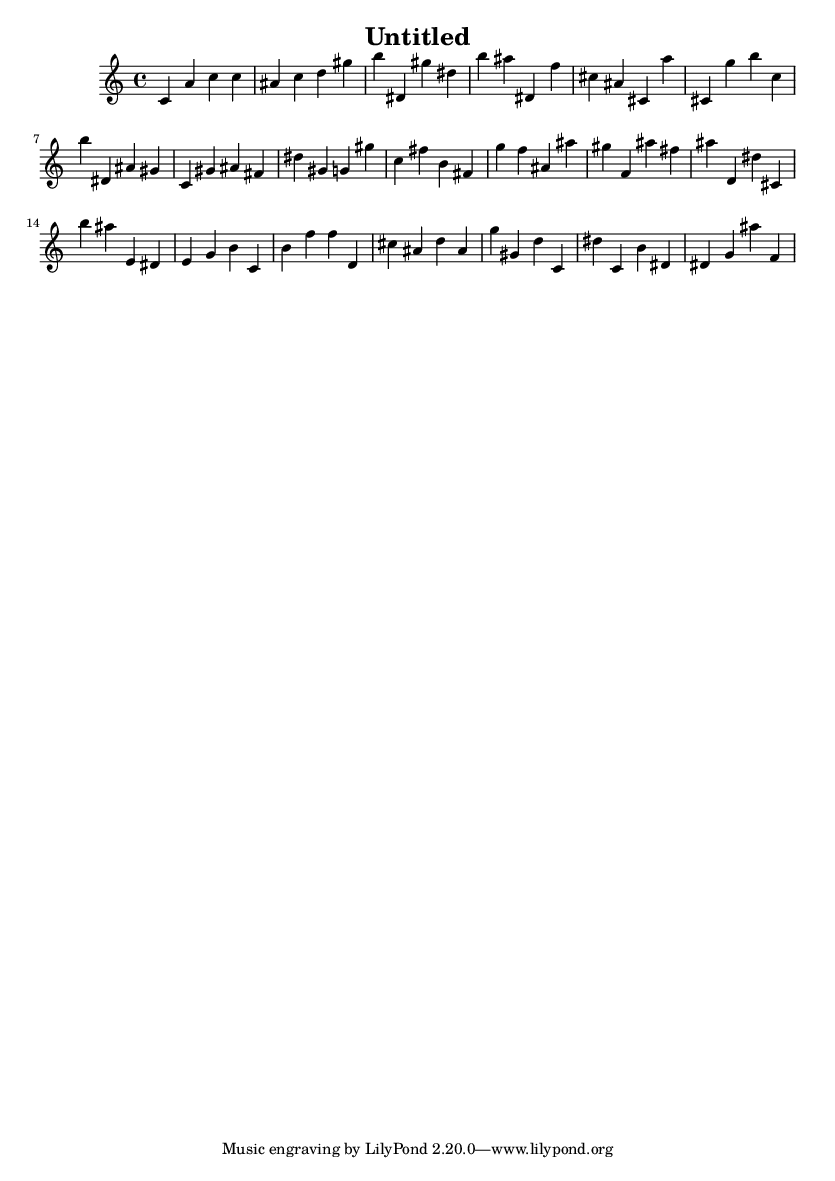
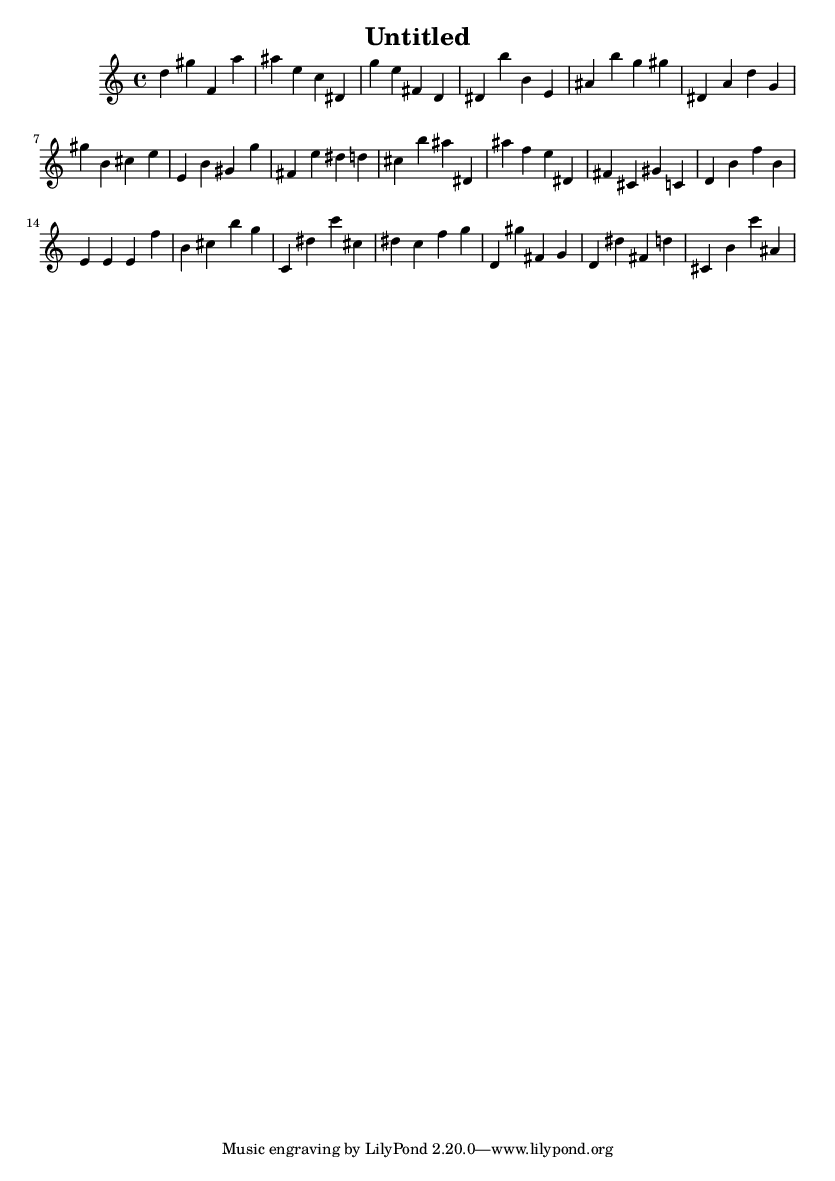
sum stuff

diff --git a/randpiano/test9.py b/randpiano/test9.py
@@ -1,0 +1,122 @@
+#get the input from the cmd line
+#generate what they want
+#	right, left or both hands
+#	single, two, three, four or five notes (for each hand for now...)
+#	in a key or not
+#		selected key or random key
+#	how many bars?? (set amount right now)
+#create lilypond thing
+#... what a fucking mess this program is...
+import os, sys, getopt
+import mingus.core.notes as notes
+import mingus.core.meter as meter
+from mingus.containers.instrument import Instrument
+from mingus.containers import Track
+from mingus.containers import Note
+from mingus.containers import Bar
+from mingus.containers import Composition
+import mingus.extra.lilypond as lilypond
+import random
+
+class MingusComposition():
+	def __init__(self):
+		self.rh = Instrument()
+		self.lh = Instrument()
+		self.nONotes = 0
+		self.key = ''
+		self.t = Track()
+		self.t1 = Track()
+		self.c = Composition()
+		self.composition = ''
+
+	def makecomp(self):
+		self.maketracks()
+		print(f'self.rh.name = {self.rh.name}')
+		if self.rh.name == 'righthand':
+			print("making right hand notes")
+			self.c + self.t
+		if self.lh.name == 'lefthand':
+			print("making left hand notes")
+			self.c + self.t1
+		self.composition = lilypond.from_Composition(self.c)
+		print(f'pre: {self.composition}')
+		if (self.lh.name == 'lefthand') or (self.rh.name == 'righthand'):
+			print("right and left bass clef")
+			self.bassclef(self.composition, 1)
+		elif (self.lh.name == 'lefthand') or (self.rh.name != 'righthand'):
+			print("only left bass clef")
+			self.bassclef(self.composition, 0)
+		print(f'post: {self.composition}')
+
+
+
+	def maketracks(self):
+		for x in range(0,20):
+			if self.rh.name == 'righthand':
+				b = Bar()
+				self.t + self.getbar(b, Note("C",4), Note("C", 6))
+			if self.lh.name == 'lefthand':
+				b = Bar()
+				self.t1 + self.getbar(b, Note("C",2), Note("C",4))
+
+	def getbar(self, b, l, h):
+		for x in range(0,4):
+			randint = random.randint(int(l),int(h))
+			nstr = Note()
+			nstr.from_int(randint)
+			b + nstr
+		return(b)
+
+	def bassclef(self, composition, x):
+		i = 0
+		j = 2
+		li = []
+		for x in (range(0,len(composition))):   #we can mess with the string and add bass clef to anything
+		    if (composition[i] == '{' and composition[j] == '{' and composition[j-1] == ' '):
+		        li.append([i,j])
+		    i+=1
+		    j+=1
+		for x in range(0,len(li)):
+			composition = composition[:li[x][0]+(13*x)] + "{ \clef bass " + composition[li[x][1]+(13*x):] 
+
+
+
+
+
+def processArgs(argv, comp):
+	try:
+		opts, args = getopt.getopt(argv,'hrlsdc:k:')	#right left single double chord <arg> key <arg>
+	except getopt.GetoptError:
+		print('test.py -hrlsd -c <# of chords> -k <what key or rand for random>')
+		sys.exit(2)
+	#parse arguments
+	for opt, arg in opts:
+		print(f'opt = {opt}, arg = {arg}')
+		if opt == 'h':
+			print('test.py -hrlsd -c <# of chords> -k <what key or rand for random>')
+			sys.exit(2)
+		elif opt == '-r':
+			comp.rh.name = "righthand"
+			print(f'self.rh.name = {comp.rh.name}')
+		elif opt == '-l':
+			comp.lh.name = "lefthand"
+		elif opt == '-s':
+			comp.nONotes = 1
+		elif opt == '-d':
+			comp.nONotes = 2
+		elif opt == '-c':
+			comp.nONotes = arg
+		elif opt == '-k':
+			comp.key = arg
+	return comp
+
+def main(argv):
+	mingcomp = MingusComposition()
+	mingcomp = processArgs(argv, mingcomp)
+	mingcomp.makecomp()
+	lilypond.to_png(mingcomp.composition, "test")
+#	os.system('nomacs test.png')
+
+
+if __name__ == '__main__':
+	main(sys.argv[1:])
